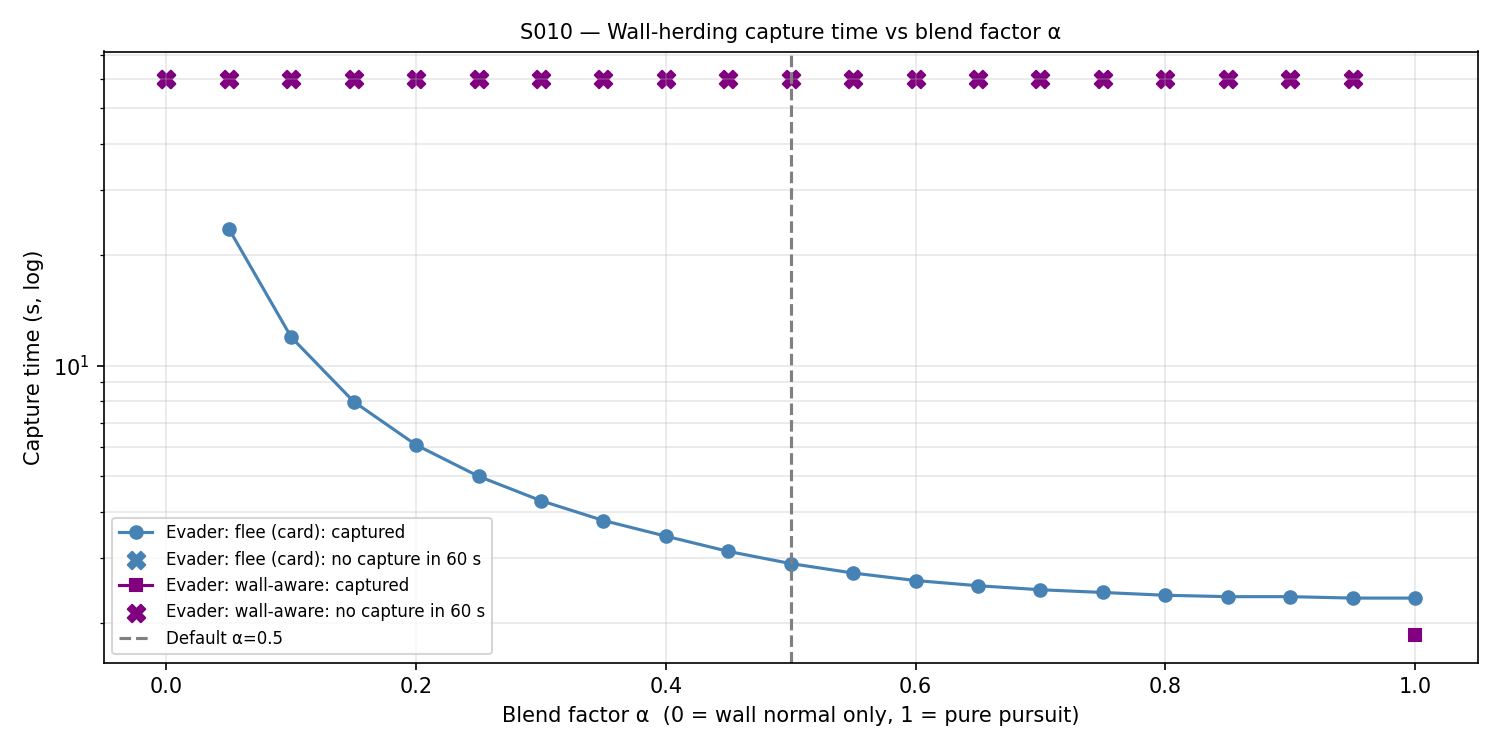
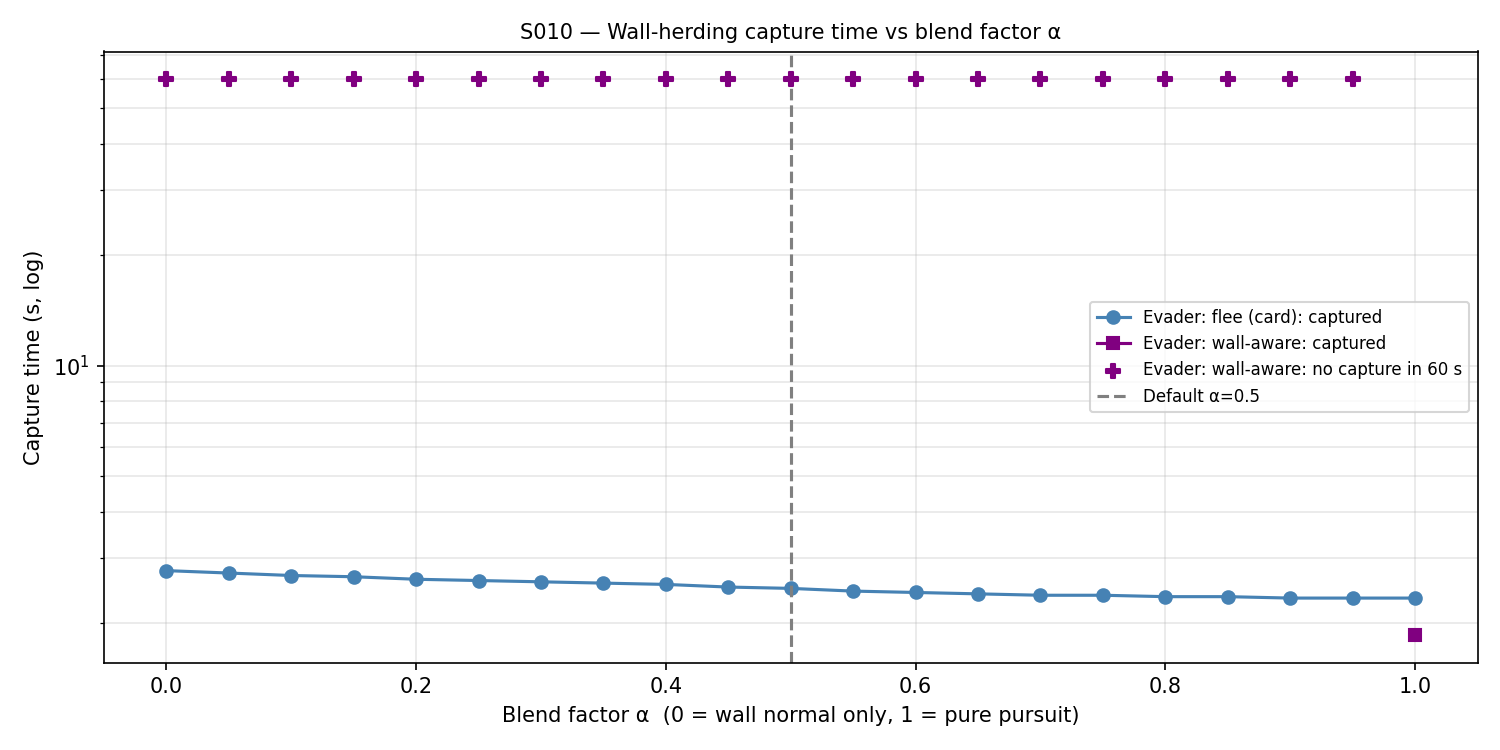
Fix S010 Asymmetric Speed: address review follow-ups
- One wall rule for every player: remove the outward component at a wall
  and renormalise to full speed (previously only the wall-aware evader
  renormalised, so the herding pursuer slid slowly along the +x wall)
- Nearest-wall tie on a corner diagonal now uses the sum of both normals
- Wall herding vs card evader: 2.479 s (was 2.896 s); the remaining
  0.146 s gap to direct pursuit is the longer path (7.44 vs 7.00 m),
  printed by the script and described accurately in the README
- alpha sweep: card evader captured for all 21 alpha values
- alpha_sensitivity.png: no-capture markers of the two evaders are now
  both visible (large X behind small +)

diff --git a/src/01_pursuit_evasion/s010_asymmetric_speed.py b/src/01_pursuit_evasion/s010_asymmetric_speed.py
@@ -8,18 +8,22 @@ walls and corners.
 Pursuer strategies:
   1. direct      — pure pursuit
   2. wall_herd   — blend: α·(unit vector to evader) + (1-α)·(outward normal of
-                   the wall nearest the evader), normalised to v_P
+                   the wall nearest the evader; if two walls are equally near,
+                   i.e. the evader is on a corner diagonal, the normalised sum
+                   of both normals), normalised to v_P
   3. corner_trap — aim at the corner closest to the evader
 
 Evader strategies:
-  - flee  (card) — straight away from the pursuer; at a wall the outward part
-                   of the velocity is lost (it presses into the wall)
+  - flee  (card) — straight away from the pursuer
   - aware        — flee direction plus repulsion from walls closer than
-                   D_SAFE (gain K_REPEL); at a wall it slides along the wall at
-                   full speed (in a corner it turns along a free wall)
+                   D_SAFE (gain K_REPEL); if its desired direction is blocked
+                   completely (straight into a wall or corner) it turns 90°
+                   counter-clockwise and slides along a free wall
 
-Arena rule (both players): a velocity component pointing out of the arena at
-a wall is removed; the 'aware' evader renormalises what is left.
+Arena rule (identical for all players): at a wall the velocity component
+pointing out of the arena is removed and the rest is renormalised to the
+player's full speed (it slides along the wall).  A command pointing straight
+into a wall or corner leaves nothing to slide with, and the player stops.
 
 Also produces:
   - Apollonius (equal-time) circle snapshots
@@ -96,8 +100,17 @@ def dir_direct(p, e, alpha=ALPHA):
 
 
 def nearest_wall_normal(e):
-    d = [e[0] + ARENA, ARENA - e[0], e[1] + ARENA, ARENA - e[1]]
-    return WALL_NORMALS[int(np.argmin(d))]
+    """Outward normal of the wall nearest the evader; on a tie (corner
+    diagonal) the normalised sum of the tied walls' normals."""
+    d = np.array([e[0] + ARENA, ARENA - e[0], e[1] + ARENA, ARENA - e[1]])
+    tied = np.isclose(d, d.min(), atol=1e-9)
+    return unit(WALL_NORMALS[tied].sum(axis=0))
+
+
+def wall_velocity(pos, d, speed):
+    """Arena rule for every player: remove the outward component at a wall,
+    renormalise the rest to full speed (zero if nothing is left)."""
+    return speed * unit(remove_outward(pos, d))
 
 
 def dir_wall_herd(p, e, alpha=ALPHA):
@@ -134,12 +147,9 @@ def evader_velocity(p, e, kind):
         d = unit(d + K_REPEL * wall_repulsion(e))
         if np.linalg.norm(d) < 1e-12:
             d = unit(e - p)
-    v = remove_outward(e, d)
-    if kind == 'aware':
-        if np.linalg.norm(v) < 1e-9:                  # pushing straight into wall/corner
-            v = remove_outward(e, np.array([-d[1], d[0]]))
-        v = unit(v)                                   # slide along walls at full speed
-    return V_EVADER * v
+    if kind == 'aware' and np.linalg.norm(remove_outward(e, d)) < 1e-9:
+        d = np.array([-d[1], d[0]])                   # blocked: turn along a free wall
+    return wall_velocity(e, d, V_EVADER)
 
 
 # ── Apollonius circle ─────────────────────────────────────────
@@ -181,7 +191,7 @@ def run_simulation(strategy, evader='flee', alpha=ALPHA):
     p_list, e_list = [p.copy()], [e.copy()]
     captured, cap_time = False, None
     for k in range(int(round(MAX_TIME / DT))):
-        vp = V_PURSUER * remove_outward(p, PURSUERS[strategy](p, e, alpha))
+        vp = wall_velocity(p, PURSUERS[strategy](p, e, alpha), V_PURSUER)
         ve = evader_velocity(p, e, evader)
         p = np.clip(p + vp * DT, -ARENA, ARENA)
         e = np.clip(e + ve * DT, -ARENA, ARENA)
@@ -197,7 +207,11 @@ def run_simulation(strategy, evader='flee', alpha=ALPHA):
 def describe(r):
     """Short text summary of how a run ended."""
     if r['captured']:
-        return f'captured @ {r["cap_time"]:.3f} s at ({r["e"][-1, 0]:.2f}, {r["e"][-1, 1]:.2f})'
+        steps = np.linalg.norm(np.diff(r['p'], axis=0), axis=1)
+        on_wall = (np.abs(r['p'][1:]) >= ARENA - 1e-9).any(axis=1)
+        return (f'captured @ {r["cap_time"]:.3f} s at ({r["e"][-1, 0]:.2f}, '
+                f'{r["e"][-1, 1]:.2f}) | pursuer path {steps.sum():.2f} m, '
+                f'on a wall {on_wall.sum() * DT:.3f} s')
     last = r['d'][r['t'] >= MAX_TIME - 10]
     n10 = int(round(10 / DT))
     plen = np.sum(np.linalg.norm(np.diff(r['p'][-n10 - 1:], axis=0), axis=1))
@@ -285,8 +299,11 @@ def plot_alpha_sensitivity(sweep, out_dir):
         ax.plot(ALPHAS[ok], caps[ok], marker=mk, color=col, linewidth=1.5,
                 label=f'{EV_LABELS[ev]}: captured')
         if (~ok).any():
-            ax.scatter(ALPHAS[~ok], np.full((~ok).sum(), MAX_TIME), marker='X', s=70,
-                       color=col, label=f'{EV_LABELS[ev]}: no capture in {MAX_TIME:.0f} s')
+            big = ev == 'flee'                     # big X behind, small + on top
+            ax.scatter(ALPHAS[~ok], np.full((~ok).sum(), MAX_TIME),
+                       marker='X' if big else 'P', s=160 if big else 45,
+                       color=col, zorder=3 if big else 4,
+                       label=f'{EV_LABELS[ev]}: no capture in {MAX_TIME:.0f} s')
     ax.axvline(ALPHA, color='grey', linestyle='--', label=f'Default α={ALPHA}')
     ax.set_yscale('log')
     ax.set_xlabel('Blend factor α  (0 = wall normal only, 1 = pure pursuit)')
